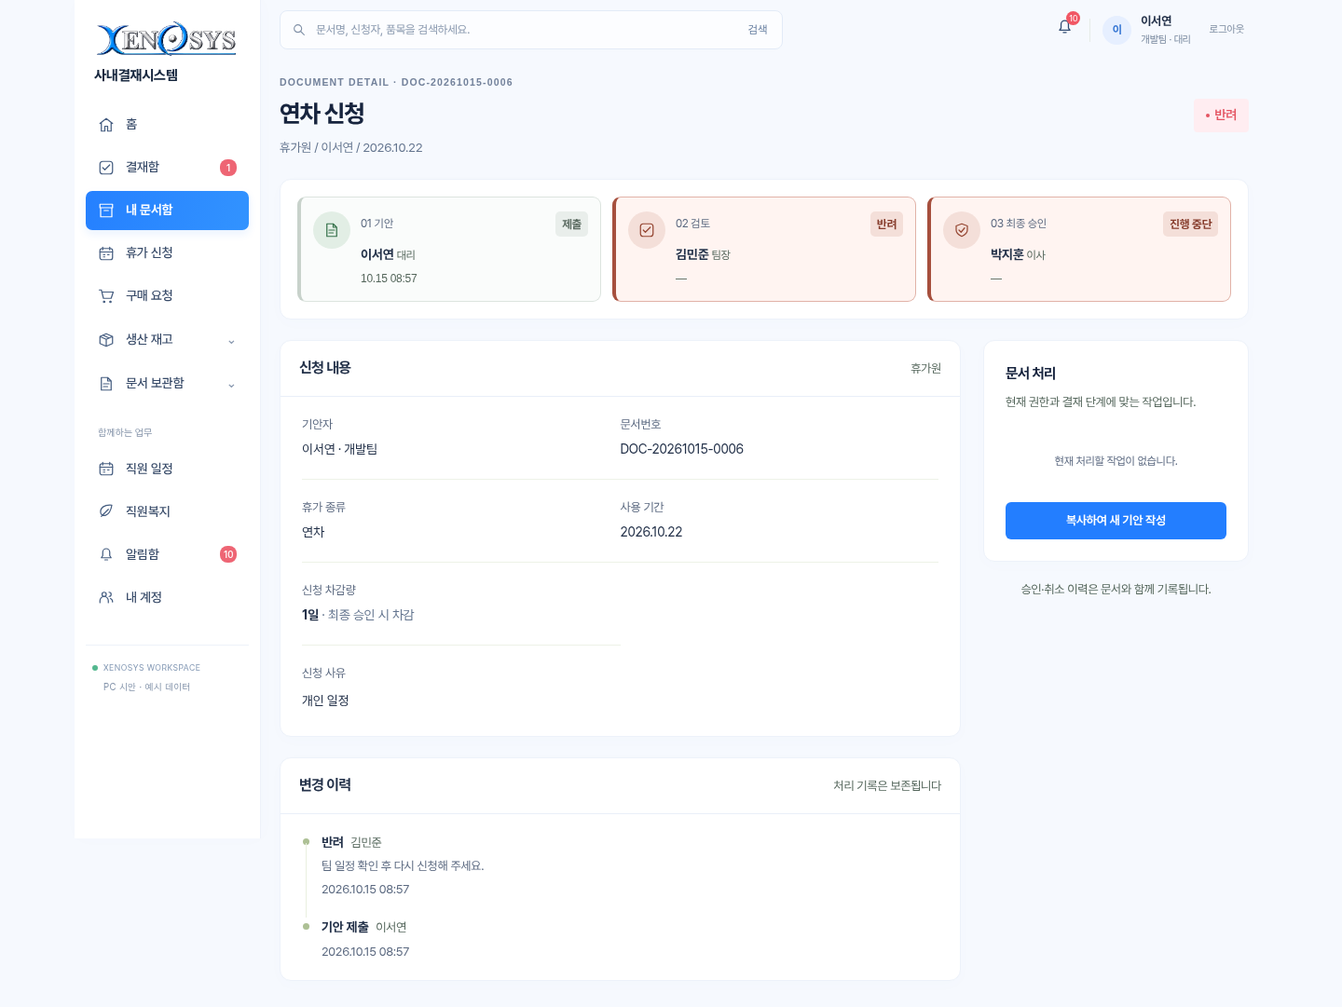
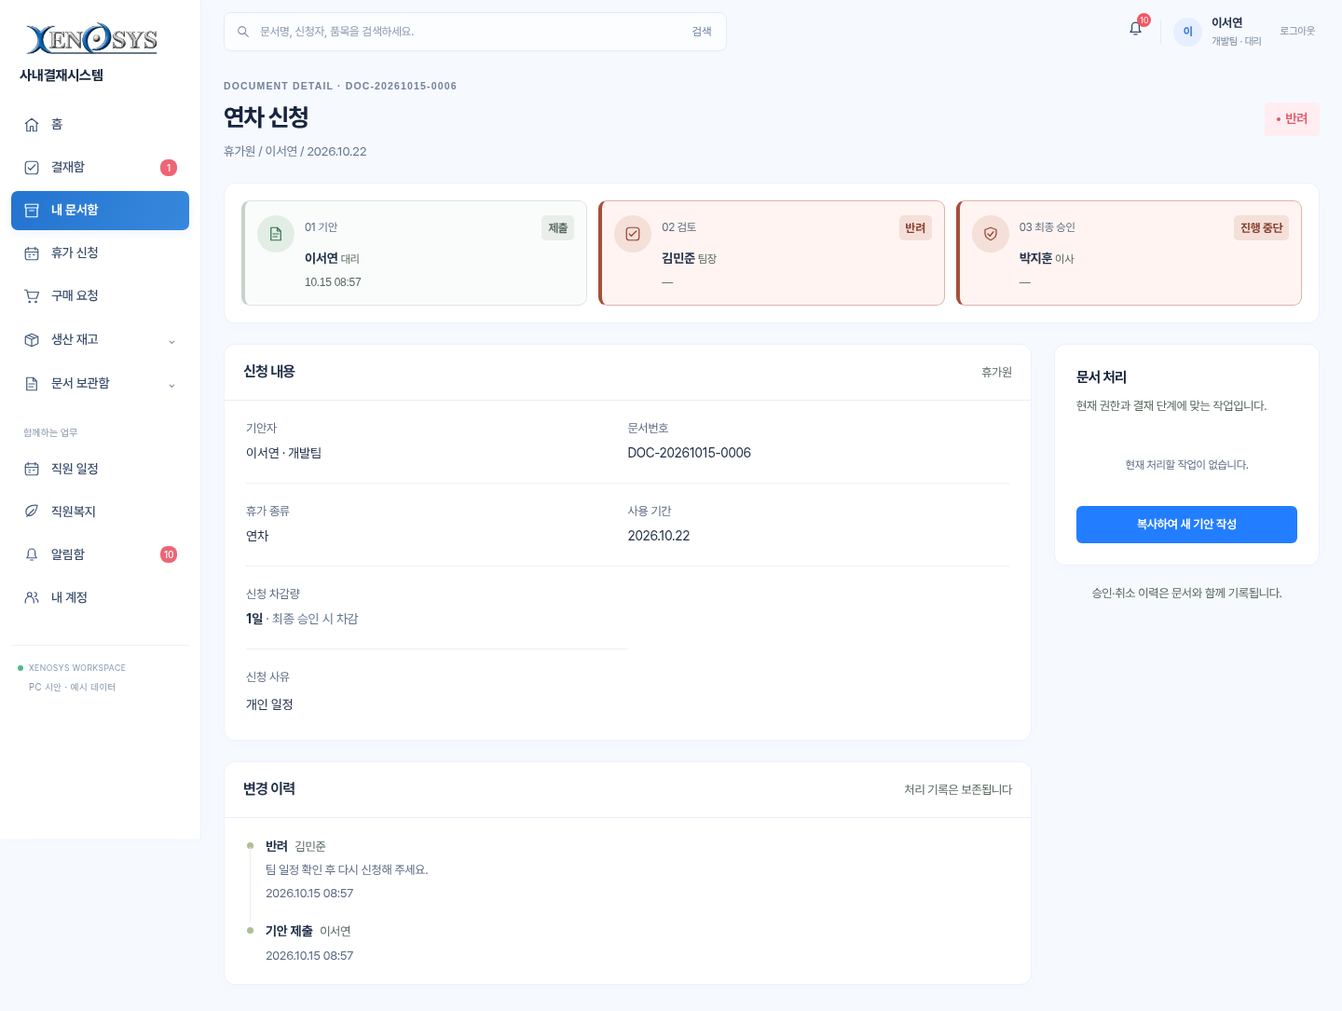
Show personal leave balances and refine Xenosys desktop workspace

diff --git a/workflow/static/workflow/workspace.css b/workflow/static/workflow/workspace.css
@@ -10,9 +10,9 @@ input:not([type=checkbox]):not([type=radio]),select,textarea{font-family:inherit
 /* Compact Xenosys workspace — white navigation and clear blue accents. */
 :root{--portal-navy:#237eff;--portal-ink:#17243e;--portal-muted:#64758f;--portal-line:#e9eff8;--blue:#237eff}
 body{background:#f6f9fe;color:var(--portal-ink)}
-body.workspace-layout{max-width:1280px;margin:0 auto;min-height:100vh;position:relative}
-.portal-sidebar{left:max(0px,calc((100vw - 1280px)/2));width:200px;background:#fff;border-right:1px solid #edf2fa;padding:16px 12px 18px;box-shadow:2px 0 20px #386bb404}
-.workspace{margin-left:200px}
+body.workspace-layout{max-width:1440px;margin:0 auto;min-height:100vh;position:relative}
+.portal-sidebar{left:max(0px,calc((100vw - 1440px)/2));width:216px;background:#fff;border-right:1px solid #edf2fa;padding:16px 12px 18px;box-shadow:2px 0 20px #386bb404}
+.workspace{margin-left:216px}
 .portal-sidebar .brand{margin:0 6px 20px;gap:2px;align-items:flex-start}
 .portal-sidebar .company-logo{width:160px;max-width:100%;height:53px;padding:0;object-fit:contain;background:#fff;border-radius:0}
 .portal-sidebar .brand-title{font-size:15px;font-weight:750;color:#192940;margin-left:3px}
@@ -20,7 +20,7 @@ body.workspace-layout{max-width:1280px;margin:0 auto;min-height:100vh;position:r
 .portal-sidebar .nav-item,.nav-compose-group summary{min-height:42px;padding:11px 13px;font-size:14px;font-weight:500;color:#384b69;border-radius:7px;gap:12px}
 .portal-sidebar .nav-item svg,.nav-compose-group summary svg{width:18px;height:18px;color:#455d80}
 .portal-sidebar .nav-item:hover,.nav-compose-group summary:hover{background:#f0f6ff;color:#1b6bda}
-.portal-sidebar .nav-item.active{background:linear-gradient(105deg,#2580ff,#3293ff);box-shadow:0 4px 10px #2683ff1a;color:#fff;font-weight:650}
+.portal-sidebar .nav-item.active{background:linear-gradient(105deg,#2474d0,#3788dc);box-shadow:0 3px 9px #2375cc18;color:#fff;font-weight:650}
 .portal-sidebar .nav-item.active svg{color:#fff}
 .portal-sidebar .nav-count{font-size:10px;background:#ee6574;min-width:18px;line-height:18px}
 .portal-sidebar .nav-label{font-size:10.5px;color:#8493a9;margin:19px 0 5px;padding:0 13px;letter-spacing:.02em}
@@ -33,7 +33,7 @@ body.workspace-layout{max-width:1280px;margin:0 auto;min-height:100vh;position:r
 .nav-compose-group a:hover,.nav-compose-group a.selected{color:#2176e9;background:#edf5ff;border-radius:5px}
 .portal-sidebar .sidebar-footer{border-top:1px solid #edf2f9;padding:17px 7px 0;margin-top:30px;font-size:9px;color:#8398b4}
 .portal-sidebar .sidebar-footer small{font-size:10px;color:#8393aa;margin-left:12px}
-.topbar{height:64px;border:0;background:#f6f9fefa;padding:0 20px;gap:20px;backdrop-filter:blur(12px)}
+.topbar{height:68px;border:0;background:#f6f9fefa;padding:0 24px;gap:20px;backdrop-filter:blur(12px)}
 .global-search{width:min(540px,48vw);height:42px;border:1px solid #e3ebf7;background:#ffffffba;border-radius:8px;box-shadow:0 3px 12px #2c5a9c02}
 .global-search input:not([type=hidden]){background:transparent;border:0;font-size:13px;padding:6px 0;min-height:36px}
 .global-search input::placeholder{font-size:12.5px;color:#8998ae}
@@ -42,7 +42,7 @@ body.workspace-layout{max-width:1280px;margin:0 auto;min-height:100vh;position:r
 .global-search input:focus{outline:0}
 .profile-caption strong{font-size:13px}.profile-caption small{font-size:11px}.profile-caption:hover strong{color:#237eff}
 .avatar{background:#e6efff;color:#3676d4}.notification-link{color:#314b72}.logout{font-size:11px}
-.main{max-width:1080px;padding:0 20px 28px}.main>.page-heading{padding-top:16px}
+.main{max-width:1224px;padding:0 24px 28px}.main>.page-heading{padding-top:16px}
 .panel,.metric-card,.quick-card{border:1px solid #edf2fa;border-radius:12px;box-shadow:0 4px 18px #3065a204}
 .btn{background:#237eff}.btn:hover{background:#1569e2}.btn.secondary{background:#f3f7ff;border-color:#e1eafa;color:#426188}
 a:focus-visible,button:focus-visible,summary:focus-visible{outline:3px solid #80b6ff;outline-offset:3px}
@@ -50,11 +50,11 @@ input[type=checkbox],input[type=radio]{accent-color:#237eff}
 .list-tabs a.selected{color:#237eff;border-color:#237eff}.staff-tabs a.selected{background:#edf5ff;color:#2477e7;border-color:#a9cbf7}
 .export-toolbar{background:#f7faff}.documents-table tr.export-selected td{background:#edf5ff}.export-actions [data-selection-count]{color:#366697}
 .home-workspace{display:flex;flex-direction:column;gap:14px}
-.welcome-hero{position:relative;isolation:isolate;overflow:hidden;min-height:170px;display:flex;align-items:center;justify-content:space-between;padding:24px 28px;background:#e9f3ff url('images/office-banner.png') center 52%/cover no-repeat;border:1px solid #e3efff;border-radius:12px}
+.welcome-hero{position:relative;gap:24px;isolation:isolate;overflow:hidden;min-height:170px;display:flex;align-items:center;justify-content:space-between;padding:24px 28px;background:#e9f3ff url('images/office-banner.png') center 52%/cover no-repeat;border:1px solid #e3efff;border-radius:12px}
 .welcome-hero:before{content:'';position:absolute;inset:0;z-index:-1;background:linear-gradient(90deg,#f0f6fff5 0%,#eef6ffb8 38%,#e9f4ff15 65%)}
-.welcome-copy{max-width:70%}.welcome-copy h1{font-size:32px;font-weight:820;line-height:1.2;letter-spacing:-.055em;color:#14213c}
-.welcome-copy h2{font-size:22px;font-weight:550;letter-spacing:-.035em;color:#637597;margin-top:10px;line-height:1.4}
-.welcome-copy p{font-size:13px;color:#657997;margin-top:8px}
+.welcome-copy{max-width:48%;min-width:0}.welcome-copy h1{font-size:30px;font-weight:780;line-height:1.2;letter-spacing:-.055em;color:#14213c}
+.welcome-copy h2{font-size:20px;font-weight:550;letter-spacing:-.035em;color:#637597;margin-top:10px;line-height:1.4}
+.welcome-copy p{font-size:12.5px;line-height:1.7;color:#657997;margin-top:8px}
 .hero-message{position:relative;margin-right:6%;margin-bottom:30px;transform:rotate(-9deg);text-align:center;color:#5481c0;font-size:16px;font-weight:550;line-height:1.6;letter-spacing:-.04em}
 .hero-message span{display:block;width:80px;height:1px;background:#81a7da;margin:7px auto}
 .home-shortcuts{display:grid;grid-template-columns:repeat(2,minmax(0,1fr));gap:12px;padding:10px;background:#fff;border:1px solid #edf2fa;border-radius:12px;box-shadow:0 4px 18px #3065a204}
@@ -105,3 +105,21 @@ input[type=checkbox],input[type=radio]{accent-color:#237eff}
 
 
 .notification-menu{position:relative}.notification-menu summary{list-style:none;cursor:pointer}.notification-menu summary::-webkit-details-marker{display:none}.notification-popover{position:absolute;top:38px;right:-12px;width:350px;background:#fff;border:1px solid #e0eafa;border-radius:10px;box-shadow:0 12px 35px #1b417b1a;padding:16px;z-index:25}.notification-popover>div{display:flex;justify-content:space-between;align-items:center;padding-bottom:12px}.notification-popover>div strong{font-size:14px}.notification-popover>div a{font-size:11px;color:#237eff}.notification-preview{display:block;padding:12px 0;border-top:1px solid #eef2f9}.notification-preview strong{display:block;font-size:12px;font-weight:500;line-height:1.7}.notification-preview small{display:block;color:#8091a9;font-size:10.5px;margin-top:4px}.notification-preview:hover strong{color:#237eff}.notification-popover>p{font-size:12px;color:#6b809f;padding:16px 0}
+
+/* Personal annual balance stays within the welcome area, with no extra dashboard row. */
+.home-leave-summary{width:46%;max-width:470px;min-width:350px;padding:15px 20px 12px;background:#ffffffed;border:1px solid #ffffff;border-radius:11px;box-shadow:0 5px 22px #294e7d08;backdrop-filter:blur(8px)}
+.leave-summary-heading{display:flex;align-items:center;justify-content:space-between;gap:12px;margin-bottom:12px}
+.leave-summary-heading h2{font-size:13px;font-weight:650;letter-spacing:-.02em;color:#344b69}
+.leave-summary-heading>span{font-size:10px;font-weight:550;color:#7591b5;background:#edf4fc;padding:2px 7px;border-radius:4px}
+.personal-leave-values{display:grid;grid-template-columns:repeat(3,minmax(0,1fr));margin:0;padding:0}
+.personal-leave-values>div{padding:0 14px;border-left:1px solid #e6edf5}.personal-leave-values>div:first-child{padding-left:0;border:0}.personal-leave-values>div:last-child{padding-right:0}
+.personal-leave-values dt{font-size:11.5px;color:#667b96;margin-bottom:4px}
+.personal-leave-values dd{margin:0;font-size:27px;font-weight:720;letter-spacing:-.045em;color:#293d58;line-height:1.3;font-variant-numeric:tabular-nums;white-space:nowrap}
+.personal-leave-values dd small{font-size:11px;font-weight:500;letter-spacing:0;margin-left:4px;color:#8594a8}
+.personal-leave-values .remaining dt,.personal-leave-values .remaining dd{color:#246fc2}.personal-leave-values .overdrawn dt,.personal-leave-values .overdrawn dd{color:#be4b55}
+.personal-leave-note{font-size:9.5px;color:#8192a8;letter-spacing:0;margin-top:12px}
+.personal-leave-empty{font-size:12px;line-height:1.8;padding:9px 0 5px;color:#6d809b}
+.home-shortcuts>a{background:linear-gradient(115deg,#f2f7fe,#eff5fd);transition:background .18s,border-color .18s,box-shadow .18s}.home-shortcuts>a:hover{box-shadow:0 3px 12px #376ea00a}
+.shortcut-arrow{background:#297bd6}.shortcut-icon{color:#2778d1;background:linear-gradient(135deg,#e4effb,#dceafa)}
+.home-progress,.home-documents{box-shadow:0 3px 16px #29486c03}
+@media(max-width:1250px){.welcome-copy{max-width:46%}.welcome-copy h1{font-size:28px}.welcome-copy h2{font-size:18px}.welcome-copy p{font-size:12px}.home-leave-summary{width:49%;min-width:320px;padding:14px 16px 12px}.personal-leave-values dd{font-size:25px}.personal-leave-values>div{padding-left:11px;padding-right:11px}.personal-leave-note{font-size:9px}}

diff --git a/workflow/templates/workflow/login.html b/workflow/templates/workflow/login.html
@@ -1,1 +1,1 @@
-{% extends 'workflow/base.html' %}{% load static %}{% block content %}<div class="auth-layout"><section class="auth-brand"><a class="brand" href="{% url 'login' %}"><img class="company-logo" src="{% static 'workflow/images/xenosys-logo.png' %}" alt="Xenosys"><span class="brand-title">사내결재시스템<small>XENOSYS WORKSPACE</small></span></a><div class="auth-copy"><span class="eyebrow">OUR WORK, CONNECTED.</span><h1>업무는 간결하게,<br>결재는 명확하게.</h1><p>휴가 신청부터 구매·발주까지.<br>우리의 업무를 하나의 공간에서 연결합니다.</p><div class="auth-flow"><span>기안</span><svg><use href="#i-arrow"/></svg><span>검토</span><svg><use href="#i-arrow"/></svg><span>승인</span></div></div><small class="auth-brand-foot">사내 PC 업무 공간 · 첫 번째 시안</small><div class="auth-orbit"></div></section><section class="auth-form-area"><div class="auth-form"><span class="eyebrow">WELCOME BACK</span><h2>로그인</h2><p>직원 계정으로 업무 공간에 접속하세요.</p><form method="post">{% csrf_token %}<label>아이디<input name="username" required autocomplete="username" placeholder="아이디를 입력해 주세요" autofocus></label><label>비밀번호<input type="password" name="password" required autocomplete="current-password" placeholder="비밀번호를 입력해 주세요"></label><button class="btn full-width">로그인 <svg><use href="#i-arrow"/></svg></button></form><div class="signup-link">아직 계정이 없나요? <a href="{% url 'signup' %}">직원 가입 신청</a></div><div class="demo-accounts"><span>시안 계정 안내</span><p><b>employee</b> 직원 · <b>accounting</b> 경리 · <b>admin</b> 관리자</p><small>초기 비밀번호는 별도로 지정한 값을 사용합니다.<br>최초 admin 로그인 시 비밀번호 변경이 필요합니다.</small></div></div></section></div>{% endblock %}
+{% extends 'workflow/base.html' %}{% load static %}{% block content %}<div class="auth-layout"><section class="auth-brand"><a class="brand" href="{% url 'login' %}"><img class="company-logo" src="{% static 'workflow/images/xenosys-logo-refined.png' %}" alt="Xenosys"><span class="brand-title">사내결재시스템<small>XENOSYS WORKSPACE</small></span></a><div class="auth-copy"><span class="eyebrow">OUR WORK, CONNECTED.</span><h1>업무는 간결하게,<br>결재는 명확하게.</h1><p>휴가 신청부터 구매·발주까지.<br>우리의 업무를 하나의 공간에서 연결합니다.</p><div class="auth-flow"><span>기안</span><svg><use href="#i-arrow"/></svg><span>검토</span><svg><use href="#i-arrow"/></svg><span>승인</span></div></div><small class="auth-brand-foot">사내 PC 업무 공간 · 첫 번째 시안</small><div class="auth-orbit"></div></section><section class="auth-form-area"><div class="auth-form"><span class="eyebrow">WELCOME BACK</span><h2>로그인</h2><p>직원 계정으로 업무 공간에 접속하세요.</p><form method="post">{% csrf_token %}<label>아이디<input name="username" required autocomplete="username" placeholder="아이디를 입력해 주세요" autofocus></label><label>비밀번호<input type="password" name="password" required autocomplete="current-password" placeholder="비밀번호를 입력해 주세요"></label><button class="btn full-width">로그인 <svg><use href="#i-arrow"/></svg></button></form><div class="signup-link">아직 계정이 없나요? <a href="{% url 'signup' %}">직원 가입 신청</a></div><div class="demo-accounts"><span>시안 계정 안내</span><p><b>employee</b> 직원 · <b>accounting</b> 경리 · <b>admin</b> 관리자</p><small>초기 비밀번호는 별도로 지정한 값을 사용합니다.<br>최초 admin 로그인 시 비밀번호 변경이 필요합니다.</small></div></div></section></div>{% endblock %}

diff --git a/workflow/templates/workflow/dashboard.html b/workflow/templates/workflow/dashboard.html
@@ -3,7 +3,15 @@
 <div class="home-workspace">
   <section class="welcome-hero" aria-labelledby="welcome-title">
     <div class="welcome-copy"><h1 id="welcome-title">사내결재시스템</h1><h2>오늘도 좋은 하루 되세요!</h2><p>{{ user.first_name }} {{ profile.rank }}님, 빠른 결재로 더 효율적인 업무를 시작하세요.</p></div>
-    <div class="hero-message" aria-hidden="true">함께 만드는<br>더 좋은 오늘<span></span></div>
+    <section class="home-leave-summary" aria-labelledby="my-leave-title">
+      <div class="leave-summary-heading"><h2 id="my-leave-title">나의 연차 현황</h2><span>{{ current_year }}년</span></div>
+      {% if balance %}<dl class="personal-leave-values">
+        <div><dt>총연차</dt><dd aria-label="총연차 {{ balance.total|amount }}일">{{ balance.total|amount }}<small>일</small></dd></div>
+        <div><dt>사용연차</dt><dd aria-label="사용연차 {{ balance.used|amount }}일">{{ balance.used|amount }}<small>일</small></dd></div>
+        <div class="remaining{% if remaining < 0 %} overdrawn{% endif %}"><dt>잔여연차</dt><dd aria-label="잔여연차 {{ remaining|amount }}일">{{ remaining|amount }}<small>일</small></dd></div>
+      </dl><p class="personal-leave-note">공용연차 포함 · 최종 승인 및 경리 수정 내용 반영</p>
+      {% else %}<p class="personal-leave-empty">연차가 아직 등록되지 않았습니다.<br>경리 담당자에게 문의해 주세요.</p>{% endif %}
+    </section>
   </section>
 
   <section class="home-shortcuts" aria-label="기안 바로가기">

diff --git a/workflow/templates/workflow/base.html b/workflow/templates/workflow/base.html
@@ -1,5 +1,5 @@
 {% load static ui %}<!doctype html>
-<html lang="ko"><head><meta charset="utf-8"><meta name="viewport" content="width=device-width,initial-scale=1"><title>{{ title }} · Xenosys 사내결재시스템</title><link rel="stylesheet" href="{% static 'workflow/style.css' %}?v=20261015compact"><link rel="stylesheet" href="{% static 'workflow/xenosys.css' %}?v=20261015compact"><link rel="stylesheet" href="{% static 'workflow/workspace.css' %}?v=20261015compact"><script src="{% static 'workflow/app.js' %}?v=20261015compact" defer></script></head>
+<html lang="ko"><head><meta charset="utf-8"><meta name="viewport" content="width=device-width,initial-scale=1"><title>{{ title }} · Xenosys 사내결재시스템</title><link rel="stylesheet" href="{% static 'workflow/style.css' %}?v=20261015balance"><link rel="stylesheet" href="{% static 'workflow/xenosys.css' %}?v=20261015balance"><link rel="stylesheet" href="{% static 'workflow/workspace.css' %}?v=20261015balance"><script src="{% static 'workflow/app.js' %}?v=20261015balance" defer></script></head>
 <body{% if user.is_authenticated and not auth_layout %} class="workspace-layout"{% endif %}>
 <svg class="svg-library" xmlns="http://www.w3.org/2000/svg"><defs>
 <symbol id="i-home" viewBox="0 0 24 24"><path d="m3 10 9-7 9 7M5 9v12h5v-7h4v7h5V9"/></symbol>

diff --git a/workflow/templates/workflow/sidebar.html b/workflow/templates/workflow/sidebar.html
@@ -1,5 +1,5 @@
 {% load static %}
-<aside class="sidebar portal-sidebar"><a class="brand" href="{% url 'dashboard' %}"><img class="company-logo" src="{% static 'workflow/images/xenosys-logo.png' %}" alt="Xenosys"><span class="brand-title">사내결재시스템</span></a>
+<aside class="sidebar portal-sidebar"><a class="brand" href="{% url 'dashboard' %}"><img class="company-logo" src="{% static 'workflow/images/xenosys-logo-refined.png' %}" alt="Xenosys"><span class="brand-title">사내결재시스템</span></a>
 <nav class="portal-navigation" aria-label="주 메뉴"><a class="nav-item {% if section == 'dashboard' %}active{% endif %}" href="{% url 'dashboard' %}"><svg><use href="#i-home"/></svg>홈</a>
 <a class="nav-item {% if section == 'pending' %}active{% endif %}" href="{% url 'documents' %}?mode=pending"><svg><use href="#i-check"/></svg>결재함{% if nav_waiting %}<span class="nav-count">{{ nav_waiting }}</span>{% endif %}</a>
 <a class="nav-item {% if section == 'mine' %}active{% endif %}" href="{% url 'documents' %}"><svg><use href="#i-archive"/></svg>내 문서함</a>

diff --git a/workflow/test_home.py b/workflow/test_home.py
@@ -1,5 +1,6 @@
 from datetime import date, time
 from decimal import Decimal
+from unittest.mock import patch
 from django.contrib.auth import get_user_model
 from django.test import TestCase
 from django.urls import reverse
@@ -43,6 +44,34 @@ class HomeWorkspaceTests(TestCase):
             self.assertNotIn(self.admin.pk, form_response.context['form'].fields['reviewer'].queryset.values_list('pk', flat=True))
         self.assertContains(response, '전체 문서 검색')
         self.assertContains(response, 'workspace.css')
+
+    @patch('workflow.context.timezone.localdate', return_value=date(2026, 10, 15))
+    def test_home_balance_uses_current_employee_and_year(self, _today):
+        AnnualBalance.objects.filter(user=self.owner, year=2026).update(used=Decimal('2.25'))
+        AnnualBalance.objects.create(user=self.owner, year=2025, total=99, used=0, grant_initialized=True)
+        AnnualBalance.objects.create(user=self.other, year=2026, total=23, used=1, grant_initialized=True)
+        for user, values in [(self.owner, ('15', '2.25', '12.75')), (self.other, ('23', '1', '22'))]:
+            self.client.force_login(user)
+            response = self.client.get(reverse('dashboard'))
+            for label, value in zip(['총연차', '사용연차', '잔여연차'], values):
+                self.assertContains(response, f'aria-label="{label} {value}일"')
+            self.assertNotContains(response, 'aria-label="총연차 99일"')
+
+    @patch('workflow.context.timezone.localdate', return_value=date(2026, 10, 15))
+    def test_home_balance_reflects_manual_changes_zero_and_negative_remaining(self, _today):
+        self.client.force_login(self.owner)
+        for used, expected in [('16.25', '-1.25'), ('15', '0')]:
+            AnnualBalance.objects.filter(user=self.owner, year=2026).update(used=used)
+            response = self.client.get(reverse('dashboard'))
+            self.assertContains(response, f'aria-label="잔여연차 {expected}일"')
+            self.assertNotContains(response, '연차가 아직 등록되지 않았습니다.')
+
+    @patch('workflow.context.timezone.localdate', return_value=date(2026, 10, 15))
+    def test_home_unregistered_balance_is_not_presented_as_zero_entitlement(self, _today):
+        self.client.force_login(self.other)
+        response = self.client.get(reverse('dashboard'))
+        self.assertContains(response, '연차가 아직 등록되지 않았습니다.')
+        self.assertNotContains(response, 'aria-label="총연차 0일"')
 
     def test_home_leave_submission_reuses_workflow_and_does_not_charge_early(self):
         self.client.force_login(self.owner)

diff --git a/README.md b/README.md
@@ -133,16 +133,17 @@ Windows에서 기존 프로그램을 업데이트하는 방법은 UPDATE_WINDOWS
 
 ## 2026-10-15: 밝은 파란색 홈 디자인
 
-최신 참고 이미지에 맞춰 흰색 왼쪽 메뉴, 파란색 선택 표시, 넓은 환영 배너와 간결한 홈을 적용했습니다. 전체 업무 화면은 최대 1280px로 제한하고 가운데 정렬합니다. 배너와 카드 여백을 줄여 한눈에 확인하기 쉽게 정리했으며, Xenosys 로고는 메뉴와 같은 흰색 배경에 표시합니다. 다른 화면에도 같은 메뉴·글꼴·색상을 적용합니다.
+최신 참고 이미지에 맞춰 흰색 왼쪽 메뉴, 파란색 선택 표시, 넓은 환영 배너와 간결한 홈을 적용했습니다. 1366×768 및 1920×1080 PC 화면을 기준으로 구성하고, 업무 화면은 최대 1440px로 제한해 가운데 정렬합니다. 배너와 카드 여백을 줄여 한눈에 확인하기 쉽게 정리했으며, Xenosys 로고는 원본에 가까운 절제된 청색·은색으로 보완하고 흰색 메뉴 위에 표시합니다. 다른 화면에도 같은 메뉴·글꼴·색상을 적용합니다.
 
+- 환영 배너 안에 본인의 **당해 총연차·사용연차·잔여연차**를 표시합니다. 공용연차·최종 승인·취소 복원·경리 수동 수정 결과를 현재 연차 자료에서 읽습니다. 소수점과 마이너스 값을 유지하며, 미등록 상태는 경리 문의 안내로 구분합니다.
 - 홈의 **휴가 신청·구매 요청** 바로가기는 기존 상세 작성 화면으로 연결합니다. 임시저장·제출·부서별 결재자 선택 등 기존 기능을 사용합니다.
 - **생산 재고**를 펼치면 요청 작성과 요청함이, **문서 보관함**을 펼치면 내 승인 내역·임시저장함·반려함·물품 수령 확인이 표시됩니다. 경리·관리자 메뉴는 기존 권한에 따라 표시됩니다.
 - 진행 중인 내 기안을 우선해 실제 결재 단계를 표시합니다. 일반 문서는 기안→검토→승인, 생산 재고는 기안→검토→발주→입고로 구분합니다. 내 최근 문서 4건은 전체 폭의 표로 표시합니다.
 - 홈 상단 알림 종을 누르면 최근 알림을 펼쳐 볼 수 있습니다. 기존 경리 알림 제한과 읽지 않은 건수를 유지합니다.
 - 상단 통합 검색은 현재 조회 권한이 있는 문서만 검색합니다. 직원 일정·연차 관리·복지·엑셀 내려받기는 기존 메뉴에서 사용합니다.
-- Pretendard 글꼴과 배너 이미지를 프로그램에 포함했습니다. 글꼴 설치나 외부 이미지 서버 연결은 필요 없습니다. 본문 약 14px, 표 12~13px, 홈 제목 32px입니다. 글꼴 라이선스는 workflow/static/workflow/fonts/OFL.txt입니다.
+- Pretendard 글꼴과 배너 이미지를 프로그램에 포함했습니다. 글꼴 설치나 외부 이미지 서버 연결은 필요 없습니다. 본문 약 14px, 표 12~13px, 홈 제목 28~30px입니다. 글꼴 라이선스는 workflow/static/workflow/fonts/OFL.txt입니다.
 
-검증: Chromium에서 최대 1280px 화면 폭과 가운데 정렬, 로고의 흰색 배경, 글꼴 로딩, 바로가기·메뉴 이동, 검색과 권한별 메뉴를 확인했습니다. 1080/1280/1440/1920px 창 크기에서 가로 넘침이 없습니다.
+검증: 전체 기능 시험 85건이 통과했습니다. 홈 기능 시험 10건에서 개인·연도별 연차 분리, 소수점·마이너스·0일·미등록 및 수동 수정 반영을 확인했습니다. Chromium에서 로고와 글꼴 로딩, 연차 표시, 작성 바로가기·메뉴·검색·권한별 메뉴와 1080/1280/1366/1440/1920px 창 크기를 확인했습니다.
 
 [현재 실제 화면 모두 보기](docs/screenshots/README.md) · [홈 화면](docs/screenshots/home.png)
 

diff --git a/docs/screenshots/README.md b/docs/screenshots/README.md
@@ -4,9 +4,11 @@
 
 ## 홈
 
-최대 1280px의 간결한 화면과 흰색 배경의 Xenosys 로고를 적용했습니다. 홈에서 휴가·구매 작성 화면으로 이동하고, 실제 결재 진행 상태와 최근 문서를 확인합니다.
+원본의 청색·은색에 가깝게 다듬은 로고와 최대 1440px의 PC 업무 화면입니다. 환영 배너에서 본인의 총연차·사용연차·잔여연차를 확인하고, 휴가·구매 작성과 결재 진행 상태·최근 문서로 이어집니다.
 
 ![홈](home.png)
+
+다른 PC 화면 크기: [1366×768 화면](home-1366.png) · [1920×1080 화면](home-1920.png)
 
 ## 결재 상세
 
